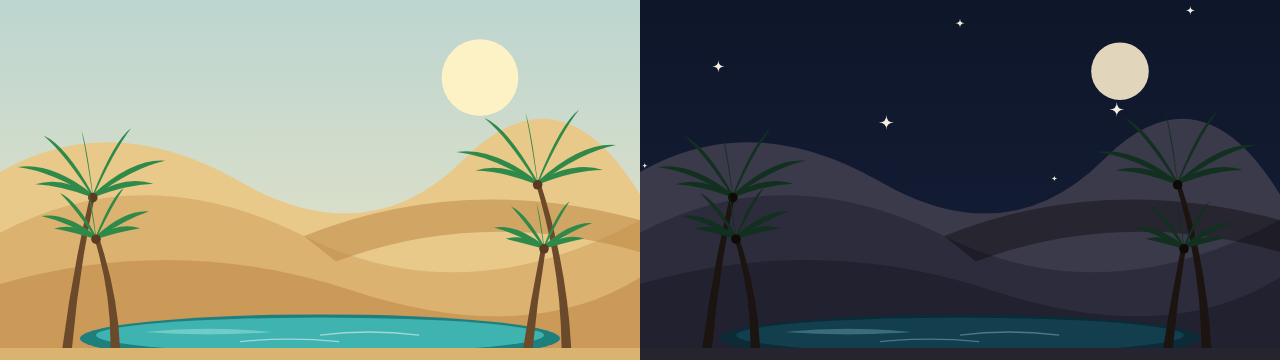
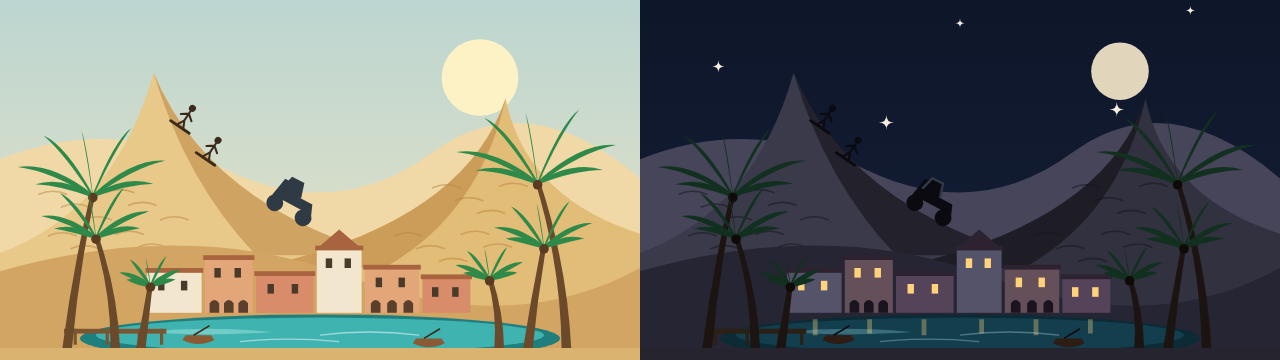
Huacachina: a town on the far shore, taller dunes, boats, a buggy and sandboarders
Claude-Session: https://claude.ai/code/session_019US2goxb2CZvYb6cmmJ8B8

diff --git a/plugins/huacachina-theme/hooks/register.tsx b/plugins/huacachina-theme/hooks/register.tsx
@@ -39,6 +39,8 @@ const { theme, problems } = makeColors({
 // the sand line is at y 505 and everything stands in that band; a phone shows all of it. The palms stand at both
 // edges and the lagoon lies low in the middle, outside the area the chat panel usually covers.
 const G = 505
+// The far shore, where the town stands, is just above the lagoon.
+const BASE = G - 22
 
 // A palm: a leaning trunk and a crown of fronds. The crown sways a little, around the top of the trunk.
 const palm = (x: number, height: number, lean: number, delay: number): string => {
@@ -80,6 +82,48 @@ const STARS = Array.from({ length: 26 }, (_, i) => {
   return `<path class="s" d="${d}" style="animation-duration:${duration}s;animation-delay:${delay}s"/>`
 }).join('')
 
+// A low building on the far shore: a flat-roofed block with a darker roof edge, two windows that glow at night, and
+// an arcade of arches along the foot when `arches` is set. Its colour class says which wash of the three it is.
+const building = (x: number, width: number, height: number, tone: 'ba' | 'bb' | 'bc', arches: boolean): string => {
+  const top = BASE - height
+  const arch = (cx: number): string => `M${cx - 3} ${BASE} V${BASE - 6} Q${cx} ${BASE - 10} ${cx + 3} ${BASE - 6} V${BASE} Z`
+
+  return [
+    `<rect class="${tone}" x="${x}" y="${top}" width="${width}" height="${height}"/>`,
+    `<rect class="br" x="${x - 1}" y="${top - 2}" width="${width + 2}" height="3"/>`,
+    `<rect class="wn" x="${x + width * 0.2}" y="${top + 6}" width="4" height="6"/>`,
+    `<rect class="wn" x="${x + width * 0.62}" y="${top + 6}" width="4" height="6"/>`,
+    arches ? `<path class="ar" d="${arch(x + width * 0.2)}${arch(x + width * 0.5)}${arch(x + width * 0.8)}"/>` : '',
+  ].join('')
+}
+
+// A rowing boat on the lagoon, bobbing a little, with its oar.
+const boat = (x: number, y: number, delay: number): string =>
+  `<g class="bob" style="animation-delay:${delay}s"><path class="bt" d="M${x - 10} ${y} Q${x} ${y + 5} ${x + 10} ${y} L${x + 8} ${y - 3} H${x - 8} Z"/><path class="fg" d="M${x - 3} ${y - 3} L${x + 7} ${y - 9}" stroke-width="1"/></g>`
+
+// A dune buggy on a crest: a squat body, a roll cage and two chunky wheels.
+const buggy = (x: number, y: number): string =>
+  [
+    `<g transform="translate(${x} ${y}) rotate(28) scale(1.25)">`,
+    '<path class="bg" d="M-11 -4 H11 L9 -9 H1 L-3 -14 H-9 L-10 -9 Z"/>',
+    '<path class="bg" d="M-8 -9 L-6 -16 H0 L2 -9" fill="none" stroke="#2f3a45" stroke-width="1.2"/>',
+    '<circle class="bg" cx="-8" cy="-1" r="4.2"/><circle class="bg" cx="8" cy="-1" r="4.2"/>',
+    '</g>',
+  ].join('')
+
+// A sandboarder standing on a slope: a head, a body and a board under the feet.
+const boarder = (x: number, y: number): string =>
+  `<g transform="translate(${x} ${y}) rotate(34)"><circle class="fg2" cx="0" cy="-13" r="2.2"/><path class="fg" d="M0 -11 V-4 M0 -9 L-4 -6 M0 -9 L4 -6 M0 -4 L-2 0 M0 -4 L2 0" stroke-width="1.3" stroke-linecap="round" fill="none"/><path class="fg" d="M-7 1 H7" stroke-width="1.8" stroke-linecap="round"/></g>`
+
+// Slow wind ripples combed across a dune, as short curved strokes.
+const ripples = (x: number, y: number, count: number): string =>
+  Array.from({ length: count }, (_, i) => {
+    const rx = x + i * 14
+    const ry = y + ((i * 7) % 5) * 5 - i * 2
+
+    return `M${rx} ${ry} q9 -4 18 0`
+  }).join('')
+
 const SCENE = [
   '<svg xmlns="http://www.w3.org/2000/svg" viewBox="0 0 400 800" preserveAspectRatio="xMidYMid slice">',
   '<defs>',
@@ -88,39 +132,64 @@ const SCENE = [
   '</defs>',
   '<style>',
   '.night{display:none}',
-  '.d1{fill:#e9c98a}.d2{fill:#dcb270}.d3{fill:#cc9a58}.sh{fill:#b9843f;opacity:.5}',
+  '.d0{fill:#f0d9a6}.d1{fill:#e9c98a}.d2{fill:#e2bd78}.d3{fill:#d3a562}.dsh{fill:#b9843f;opacity:.55}.wr{stroke:#b9843f;stroke-width:1;fill:none;opacity:.5}',
   '.gnd{fill:#d9b36f}',
-  '.lg{fill:#3fb3b0}.lh{fill:#9be0dc;opacity:.55}.rf{fill:#1f7f7d}',
+  '.lg{fill:#3fb3b0}.lh{fill:#9be0dc;opacity:.55}.rf{fill:#1f7f7d}.rl{fill:#ffd37a;opacity:0}',
+  '.ba{fill:#f3e6cf}.bb{fill:#e2a679}.bc{fill:#d98c6a}.br{fill:#a8643f}.wn{fill:#4a3a2a}.ar{fill:#5a3f2c}',
+  '.wd{fill:#7a5532}.bt{fill:#8a5a34}.fg{stroke:#3b2a1c}.fg2{fill:#3b2a1c}.bg{fill:#2f3a45}',
   '.tk{fill:#6b4a2b}.fr{fill:#2f8a4a}.co{fill:#5a3b22}',
   '.sw{animation:sway 7s ease-in-out infinite}',
   '@keyframes sway{0%,100%{transform:rotate(-2.5deg)}50%{transform:rotate(3deg)}}',
+  '.bob{animation:bob 5s ease-in-out infinite}',
+  '@keyframes bob{0%,100%{transform:translateY(0)}50%{transform:translateY(1.6px)}}',
   '.rp{fill:none;stroke:#ffffff;stroke-width:.8;opacity:.5;animation:rip 6s ease-in-out infinite}',
   '@keyframes rip{0%,100%{opacity:.15}50%{opacity:.6}}',
   '.s{fill:#f6ecdf;animation-name:tw;animation-timing-function:ease-in-out;animation-iteration-count:infinite}',
   '@keyframes tw{0%,100%{opacity:.15}50%{opacity:1}}',
-  // At night the sand is cool and dark, the lagoon is deep and carries the stars' light, and the palms are near black.
-  '@media (prefers-color-scheme:dark){.day{display:none}.night{display:inline}.d1{fill:#3b3a4a}.d2{fill:#2d2c3c}.d3{fill:#22212f}.sh{fill:#000;opacity:.35}.gnd{fill:#26242f}.lg{fill:#123e4d}.lh{fill:#9bd7e6;opacity:.3}.rf{fill:#0c2b36}.tk{fill:#1b1410}.fr{fill:#12301f}.co{fill:#0f0a07}.rp{stroke:#bfe6f2;opacity:.35}}',
-  // Asked to reduce motion, the palms and the ripples rest and the stars stay still.
-  '@media (prefers-reduced-motion:reduce){.sw,.rp,.s{animation:none}}',
+  // At night the sand is cool and dark, the shore town is lit and mirrored in the lagoon, and the palms are near black.
+  '@media (prefers-color-scheme:dark){.day{display:none}.night{display:inline}.d0{fill:#46455a}.d1{fill:#3b3a4a}.d2{fill:#32313f}.d3{fill:#262533}.dsh{fill:#000;opacity:.4}.wr{stroke:#14131c;opacity:.5}.gnd{fill:#26242f}.lg{fill:#123e4d}.lh{fill:#9bd7e6;opacity:.3}.rf{fill:#0c2b36}.rl{opacity:.35}.ba{fill:#55536a}.bb{fill:#65505a}.bc{fill:#55435a}.br{fill:#2c2230}.wn{fill:#ffd37a}.ar{fill:#1a1420}.wd{fill:#2b1f16}.bt{fill:#2d1d14}.fg{stroke:#0b0a10}.fg2{fill:#0b0a10}.bg{fill:#0b0a10}.tk{fill:#1b1410}.fr{fill:#12301f}.co{fill:#0f0a07}.rp{stroke:#bfe6f2;opacity:.35}}',
+  // Asked to reduce motion, the palms, boats and ripples rest and the stars stay still.
+  '@media (prefers-reduced-motion:reduce){.sw,.bob,.rp,.s{animation:none}}',
   '</style>',
   '<rect class="day" width="400" height="800" fill="url(#hc-day)"/>',
   '<rect class="night" width="400" height="800" fill="url(#hc-night)"/>',
   `<g class="night">${STARS}<circle cx="300" cy="332" r="18" fill="#f3e6c8" opacity=".92"/></g>`,
   '<circle class="day" cx="300" cy="336" r="24" fill="#fff3c4" opacity=".95"/>',
-  // Three rows of dunes, the far ones paler. A thin shaded side gives each ridge its edge.
-  `<path class="d1" d="M0 ${G - 110} Q70 ${G - 150} 150 ${G - 104} T290 ${G - 118} T400 ${G - 96} L400 ${G} L0 ${G} Z"/>`,
-  `<path class="d2" d="M0 ${G - 72} Q90 ${G - 120} 190 ${G - 70} T400 ${G - 80} L400 ${G} L0 ${G} Z"/>`,
-  `<path class="sh" d="M190 ${G - 70} Q290 ${G - 110} 400 ${G - 80} L400 ${G - 60} Q300 ${G - 88} 210 ${G - 54} Z"/>`,
-  `<path class="d3" d="M0 ${G - 40} Q110 ${G - 72} 220 ${G - 36} T400 ${G - 44} L400 ${G} L0 ${G} Z"/>`,
-  // The lagoon, with a reed edge and a few ripples.
+  // Far dunes, then two tall dunes with sharp crests, sunlit on one side and shaded on the lee side.
+  `<path class="d0" d="M0 ${G - 118} Q70 ${G - 146} 140 ${G - 112} T270 ${G - 122} T400 ${G - 106} L400 ${G} L0 ${G} Z"/>`,
+  `<path class="d1" d="M-10 ${G - 56} Q70 ${G - 80} 96 ${G - 172} Q130 ${G - 90} 240 ${G - 58} L240 ${G} L-10 ${G} Z"/>`,
+  `<path class="dsh" d="M96 ${G - 172} Q130 ${G - 90} 240 ${G - 58} L160 ${G - 58} Q116 ${G - 104} 96 ${G - 172} Z"/>`,
+  `<path class="d2" d="M160 ${G - 50} Q290 ${G - 78} 316 ${G - 156} Q330 ${G - 86} 420 ${G - 66} L420 ${G} L160 ${G} Z"/>`,
+  `<path class="dsh" d="M316 ${G - 156} Q290 ${G - 78} 160 ${G - 50} L240 ${G - 50} Q300 ${G - 84} 316 ${G - 156} Z"/>`,
+  `<path class="wr" d="${ripples(24, G - 96, 5)}${ripples(30, G - 70, 6)}${ripples(246, G - 70, 5)}${ripples(270, G - 100, 4)}"/>`,
+  buggy(180, G - 85),
+  boarder(113, G - 139),
+  boarder(129, G - 119),
+  `<path class="d3" d="M0 ${G - 48} Q120 ${G - 82} 220 ${G - 44} T400 ${G - 50} L400 ${G} L0 ${G} Z"/>`,
+  // The town on the far shore, with its arcades, and the lagoon in front of it.
+  building(92, 34, 26, 'ba', false),
+  building(128, 30, 34, 'bb', true),
+  building(160, 36, 24, 'bc', false),
+  building(198, 28, 40, 'ba', false),
+  `<path class="br" d="M198 ${BASE - 40} L212 ${BASE - 52} L226 ${BASE - 40} Z"/>`,
+  building(228, 34, 28, 'bb', true),
+  building(264, 30, 22, 'bc', false),
   `<ellipse class="rf" cx="200" cy="${G - 6}" rx="150" ry="15"/>`,
   `<ellipse class="lg" cx="200" cy="${G - 8}" rx="140" ry="11"/>`,
   `<path class="lh" d="M90 ${G - 10} Q130 ${G - 14} 170 ${G - 10} Q130 ${G - 7} 90 ${G - 10} Z"/>`,
   `<path class="rp" d="M200 ${G - 8} Q230 ${G - 12} 262 ${G - 8} M150 ${G - 4} Q180 ${G - 7} 212 ${G - 4}"/>`,
+  // Lights of the town mirrored in the water, at night only.
+  `<path class="rl" d="M108 ${G - 18} v10 h3 v-10 Z M142 ${G - 18} v9 h3 v-9 Z M176 ${G - 18} v10 h3 v-10 Z M212 ${G - 18} v9 h3 v-9 Z M246 ${G - 18} v10 h3 v-10 Z M280 ${G - 18} v9 h3 v-9 Z"/>`,
+  // A short wooden pier with its posts, and two rowing boats.
+  `<rect class="wd" x="40" y="${G - 12}" width="64" height="3"/><path class="wd" d="M46 ${G - 12} v10 h2 v-10 Z M66 ${G - 12} v10 h2 v-10 Z M86 ${G - 12} v10 h2 v-10 Z M100 ${G - 12} v10 h2 v-10 Z"/>`,
+  boat(124, G - 5, 0),
+  boat(268, G - 3, -2),
   palm(42, 96, 16, 0),
   palm(72, 70, -12, -2),
   palm(354, 104, -18, -1),
   palm(330, 64, 10, -3),
+  palm(88, 40, 6, -4),
+  palm(312, 44, -6, -5),
   '<rect class="gnd" x="0" y="' + G + '" width="400" height="295"/>',
   '</svg>',
 ].join('')

diff --git a/README.es.md b/README.es.md
@@ -94,7 +94,7 @@ Mods bonitas para Claude Code: cambian cómo se ve y qué muestra. Un aspecto na
 | Mod | Qué hace |
 |---|---|
 | `machu-picchu-theme` | Terrazas de piedra con una ciudad en la ladera de casas de piedra (techos de paja, puertas trapezoidales y nichos, y algunas solo con muros), un pico empinado con una pequeña ruina en la cima, dos llamas con mantas tejidas y una niebla lenta, de día con sol o de noche con estrellas y luna. Sigue tu modo claro u oscuro. La niebla se desplaza y las estrellas parpadean. Las ruinas están en el borde izquierdo y las llamas en el derecho, fuera del centro donde suele estar el panel del chat. |
-| `huacachina-theme` | Dunas de arena alrededor de una pequeña laguna del desierto con palmeras que se mecen, de día con sol o de noche con estrellas y luna. Sigue tu modo claro u oscuro. Las palmeras se mecen un poco, la laguna ondula y las estrellas parpadean. Las palmeras están en los dos bordes. |
+| `huacachina-theme` | Altas dunas con ondulaciones del viento, un buggy y dos sandboarders, alrededor de una laguna del desierto con un pequeño pueblo en la orilla lejana (arcadas, muros de colores, ventanas que brillan de noche y se reflejan en el agua), un muelle de madera, dos botes de remos y palmeras que se mecen, de día con sol o de noche con estrellas y luna. Sigue tu modo claro u oscuro. Las palmeras se mecen, los botes se balancean, la laguna ondula y las estrellas parpadean. Las palmeras están en los dos bordes. |
 
 ### Música
 

diff --git a/README.md b/README.md
@@ -94,7 +94,7 @@ Pretty mods for Claude Code: changes to how it looks and what it shows. A Christ
 | Mod | What it does |
 |---|---|
 | `machu-picchu-theme` | Stone terraces with a hillside city of stone houses (thatched roofs, trapezoid doors and niches, and some left as walls), a steep peak with a small ruin on top, two llamas in woven blankets and slow mist, by day with the sun or at night with stars and the moon. It follows your light or dark mode. The mist drifts and the stars twinkle. The ruins stand at the left edge and the llamas at the right, outside the middle where the chat panel usually is. |
-| `huacachina-theme` | Sand dunes around a small desert lagoon with swaying palms, by day with the sun or at night with stars and the moon. It follows your light or dark mode. The palms sway a little, the lagoon ripples and the stars twinkle. The palms stand at both edges. |
+| `huacachina-theme` | Tall sand dunes with wind ripples, a buggy and two sandboarders, around a desert lagoon with a small town on its far shore (arcades, coloured walls, windows that glow at night and are mirrored in the water), a wooden pier, two rowing boats and swaying palms, by day with the sun or at night with stars and the moon. It follows your light or dark mode. The palms sway, the boats bob, the lagoon ripples and the stars twinkle. The palms stand at both edges. |
 
 ### Music
 
